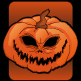
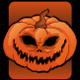
Black/White issue solved; even number of pixels for texture files required!

diff --git a/GooseBerry/src/GB_Loader.cc b/GooseBerry/src/GB_Loader.cc
@@ -383,11 +383,7 @@ GOOSEBERRY_API GB_Enum::gbResult GB_Loader::LoadTextureFile(std::string file, GB
 		GLuint temp_texture;
 		glGenTextures(1, &temp_texture);
 		glBindTexture(GL_TEXTURE_2D, temp_texture);
-		glTexImage2D(GL_TEXTURE_2D, 0, GL_RGB, tex_width, tex_height, 0, GL_RGB, GL_UNSIGNED_BYTE, pixel_data); // texture->texture_);
-		glTexParameterf(GL_TEXTURE_2D, GL_TEXTURE_WRAP_S, GL_CLAMP);
-		glTexParameterf(GL_TEXTURE_2D, GL_TEXTURE_WRAP_T, GL_CLAMP);
-		glTexParameterf(GL_TEXTURE_2D, GL_TEXTURE_MAG_FILTER, GL_LINEAR);
-		glTexParameterf(GL_TEXTURE_2D, GL_TEXTURE_MIN_FILTER, GL_LINEAR);
+		glTexImage2D(GL_TEXTURE_2D, 0, GL_RGB, tex_width, tex_height, 0, GL_RGB, GL_UNSIGNED_BYTE, pixel_data); 
 
 		GB_Texture texture(file, (int)texture_nr);
 		*texture_nr		= temp_texture;

diff --git a/GooseBerry/src/GB_Model.cc b/GooseBerry/src/GB_Model.cc
@@ -53,5 +53,9 @@ GB_Model :: GB_Model(std::string mesh_file, GLuint texture_nr)
 void GB_Model :: Draw()
 {
 	glBindTexture(GL_TEXTURE_2D, texture_nr_);
+	glTexParameterf(GL_TEXTURE_2D, GL_TEXTURE_WRAP_S, GL_CLAMP);
+	glTexParameterf(GL_TEXTURE_2D, GL_TEXTURE_WRAP_T, GL_CLAMP);
+	glTexParameterf(GL_TEXTURE_2D, GL_TEXTURE_MAG_FILTER, GL_LINEAR);
+	glTexParameterf(GL_TEXTURE_2D, GL_TEXTURE_MIN_FILTER, GL_LINEAR);
 	mesh_->Draw();
 }

diff --git a/GooseBerryTestingApplication/src/GooseBerryTestingApplication.cc b/GooseBerryTestingApplication/src/GooseBerryTestingApplication.cc
@@ -133,7 +133,7 @@ GB_Enum::gbResult Load()
 	GB_LDEBUG("Starting loading textures");
 
 	GB_LDEBUG("Starting loading models");
-	test_model = new GB_Model(".\\dta\\cube_pumpkin.obj", ++texture_nr);
+	test_model = new GB_Model(".\\dta\\cube_pumpkin.obj", texture_nr);
 
 	return GB_Enum::GB_OK;
 }
